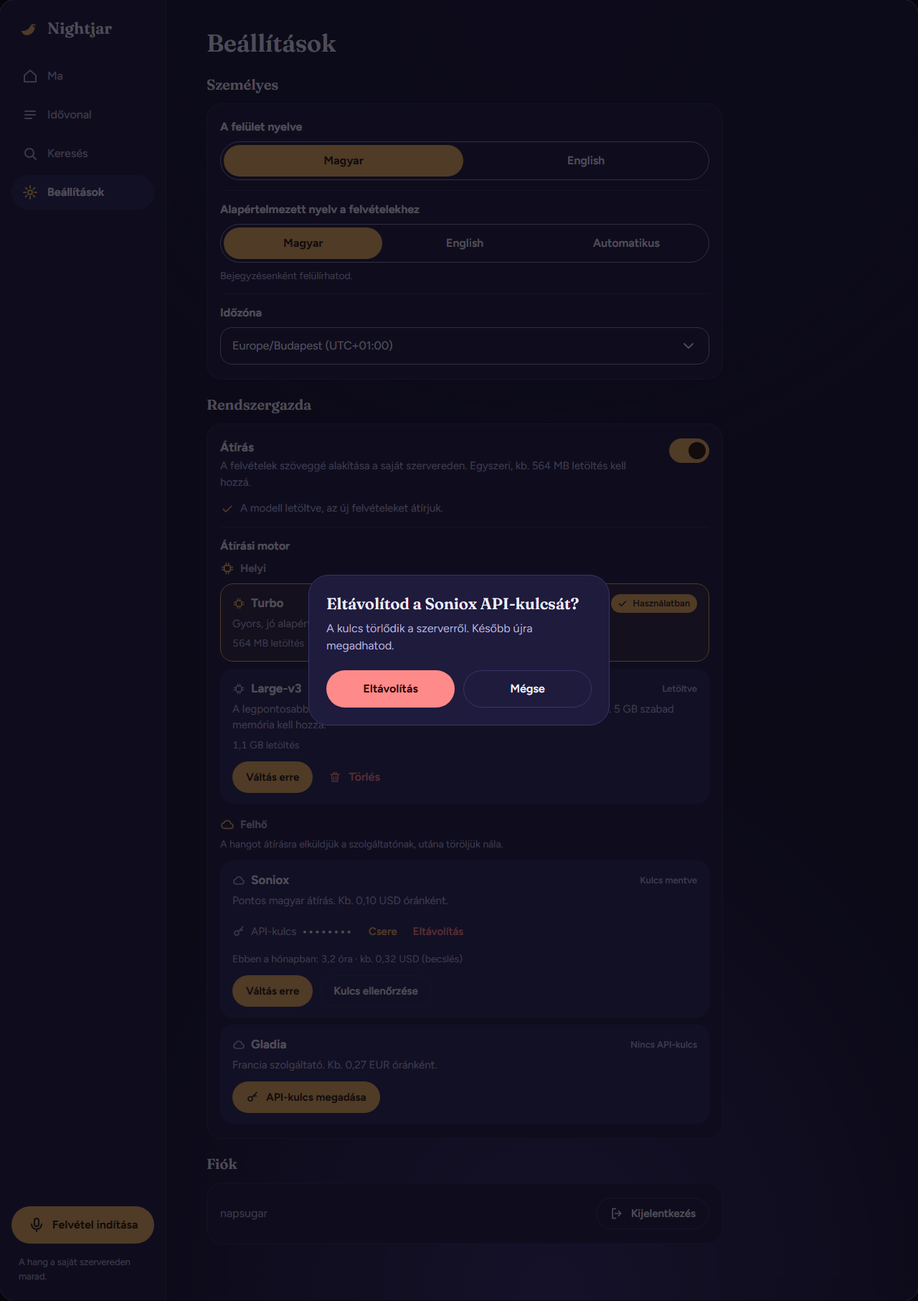
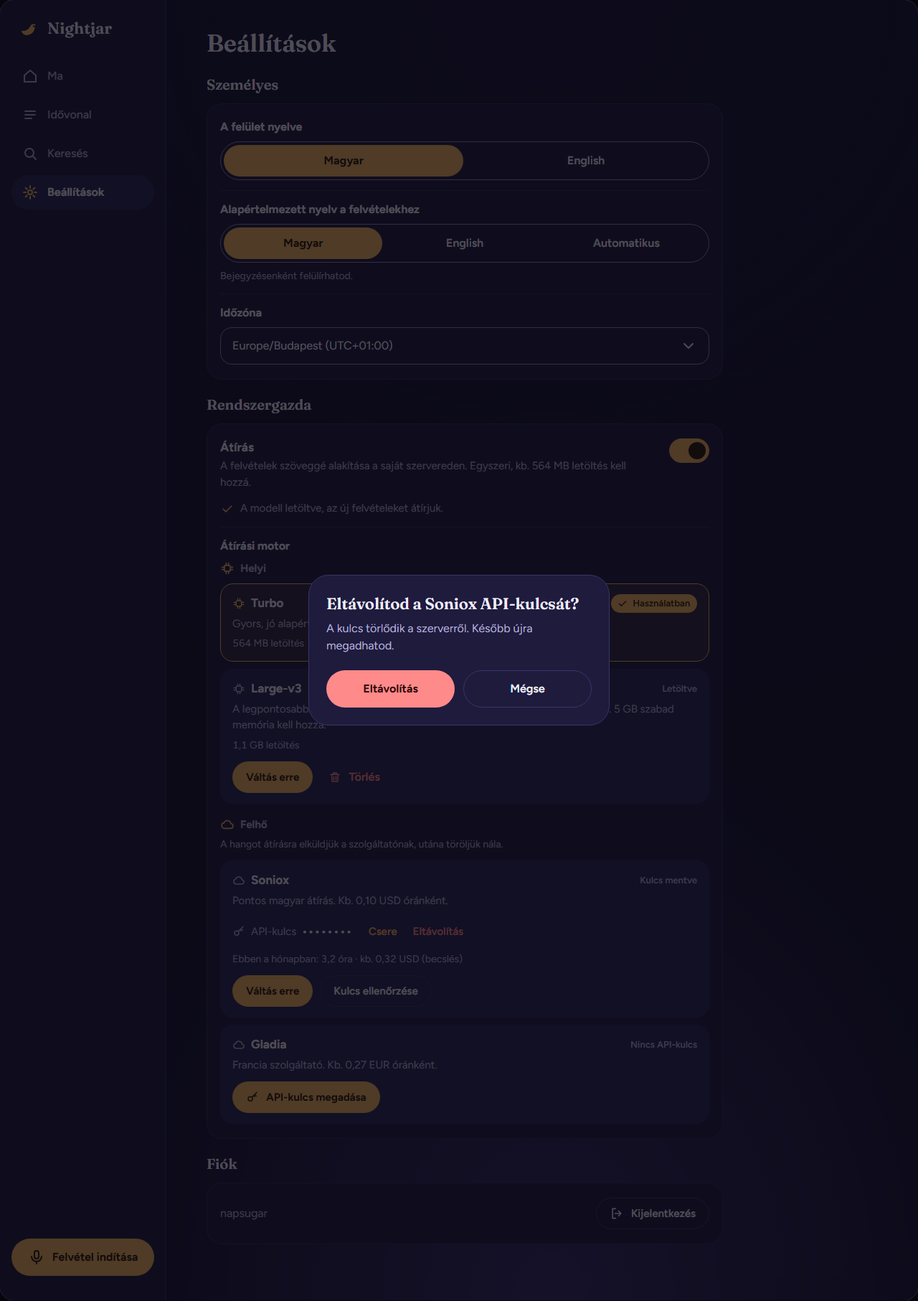
docs: spec 010 owner decisions on the instance secret and privacy notes
The instance secret comes from NIGHTJAR_SECRET_KEY when set, else a generated secret.key in the data folder (D-59), documented in self-hosting and backup. Privacy notes stay in Settings only: the record screen cloud hint is dropped and the existing sidebar and recorder note is removed (D-60). The open question and S-27 are gone, migration renumbered to 0011.

Changed region(s): [[0.0, 0.9266, 0.1875, 0.9884]]

diff --git a/design/alkony/010-cloud-transcription.html b/design/alkony/010-cloud-transcription.html
@@ -374,11 +374,6 @@ mark{background:var(--mark);color:var(--text);border-radius:4px;padding:0 2px}
 .kres.err svg{color:var(--danger)}
 .kform .macts{margin-top:4px}
 .mrow>.alert{margin:12px 0 0}
-.cloudnote{display:inline-flex;align-items:center;gap:8px;justify-content:center}
-.cloudnote svg{width:18px;height:18px;color:var(--accent-text)}
-.note .cloudnote{width:100%}
-.side .privacy .cloudnote{justify-content:flex-start;align-items:flex-start}
-.side .privacy .cloudnote svg{width:16px;height:16px;margin-top:2px}
 .tag .mdl svg{width:15px;height:15px}
 .failed p+p{margin-top:2px}
 </style>
@@ -419,7 +414,7 @@ mark{background:var(--mark);color:var(--text);border-radius:4px;padding:0 2px}
   <label>Screen <select id="s"></select></label>
   <label>Size <select id="d"><option value="m">390 mobile</option><option value="1280">1280 desktop</option><option value="1440">1440 desktop</option></select></label>
   <label>Theme <select id="t"><option value="dark">dark</option><option value="light">light</option></select></label>
-  <p>Mockup only: frames grow with their content so nothing is cut off (on a real phone the page scrolls). Same tokens and parts as the 009 mockups. Prices and usage numbers are examples.</p>
+  <p>Mockup only: frames grow with their content so nothing is cut off (on a real phone the page scrolls). Same tokens and parts as the 009 mockups. Prices and usage numbers are examples. The desktop sidebar has no privacy line any more (D-60): where audio goes is said only in Settings and by the icon on each transcript.</p>
 </div>
 <div class="stage"><div id="frame"></div></div>
 
@@ -510,26 +505,6 @@ const removeDialog=`<div class="scrim"><div class="dialog" role="alertdialog" ar
   <div class="actions"><button class="btn danger block">Eltávolítás</button><button class="btn line block">Mégse</button></div></div></div>`;
 S.keyremove={...S.engines,label:'API key: remove confirmation',over:removeDialog};
 
-/* ---- recorder with the cloud note ---- */
-const bars=n=>Array.from({length:n},(_,i)=>`<span class="${i>n*.75?'old':''}" style="height:${14+Math.abs(Math.sin(i*.55)*Math.cos(i*.21))*92}px"></span>`).join('');
-const cloudNote=`<span class="cloudnote">${ic('cloud')}Átírás a felhőben: Soniox</span>`;
-const ctrls=`<div class="ctrls">
-    <button class="ctrl del"><span class="c">${ic('trash')}</span>Elvetés</button>
-    <button class="ctrl stop"><span class="c"><svg class="i" viewBox="0 0 24 24" aria-hidden="true"><rect x="6" y="6" width="12" height="12" rx="2"/></svg></span>Leállítás</button>
-    <button class="ctrl"><span class="c">${ic('pause')}</span>Szünet</button></div>`;
-S.recordcloud={label:'Recorder: cloud engine note',nav:'',tabs:0,side:1,rec:0,cloud:1,body:()=>`
-  <div class="hd"><span class="state"><b></b>Felvétel folyamatban</span></div>
-  <div class="timer" role="timer" aria-label="Eltelt idő">02:14</div>
-  <p class="sub">Beszélj nyugodtan, nem sietünk.</p>
-  <div class="meter" aria-hidden="true">${bars(36)}</div>${ctrls}
-  <p class="note">${cloudNote}</p>`,
-  d:()=>`<div class="main rec-main" style="align-items:center;justify-content:center;flex:1">
-  <span class="state"><b></b>Felvétel folyamatban</span>
-  <div class="timer" role="timer" aria-label="Eltelt idő">02:14</div>
-  <p class="sub">Beszélj nyugodtan, nem sietünk.</p>
-  <div class="meter" aria-hidden="true">${bars(56)}</div>${ctrls}
-  <p class="note">${cloudNote}</p></div>`};
-
 /* ---- entry: labels and failed states ---- */
 const chipBtn=t=>`<button class="chip">${ic('cal',18)}${t}</button>`;
 const more=`<button class="icbtn more" aria-label="Felvétel műveletei" aria-haspopup="menu" aria-expanded="false">${ic('more')}</button>`;
@@ -575,13 +550,12 @@ function render(id,dev,theme){
   const sc=S[id];const m=dev==='m';const w=m?390:+dev;
   const f=document.getElementById('frame');
   const cls=`frame ${m?'m':'d'} ${theme==='light'?'light':''} ${!m&&sc.bare?'bare':''}`;
-  const privacy=sc.cloud?`<p class="privacy">${cloudNote}</p>`:`<p class="privacy">A hang a saját szervereden marad.</p>`;
   let h='';
   if(m){
     h+=`<div class="status"><span>21:14</span><span>5G ▮▮▮</span></div><div class="scroll">${sc.body()}</div>`;
     if(sc.tabs)h+=`<nav class="tabs" aria-label="Fő navigáció">${nav.map(([k,i,l])=>`<a href="#" ${sc.nav===k?'aria-current="page"':''}>${ic(i)}${l}</a>`).join('')}</nav>`;
   }else{
-    h+=`<nav class="side" aria-label="Fő navigáció"><div class="brand">${ic('bird')}Nightjar</div>${nav.map(([k,i,l])=>`<a class="nav" href="#" ${sc.nav===k?'aria-current="page"':''}>${ic(i)}${l}</a>`).join('')}<div class="grow"></div>${sc.rec?`<button class="newrec">${ic('mic')}Felvétel indítása</button>`:''}${privacy}</nav>`;
+    h+=`<nav class="side" aria-label="Fő navigáció"><div class="brand">${ic('bird')}Nightjar</div>${nav.map(([k,i,l])=>`<a class="nav" href="#" ${sc.nav===k?'aria-current="page"':''}>${ic(i)}${l}</a>`).join('')}<div class="grow"></div>${sc.rec?`<button class="newrec">${ic('mic')}Felvétel indítása</button>`:''}</nav>`;
     h+=`<main class="main">${sc.d?sc.d():`<div class="page"><div class="col">${sc.body()}</div></div>`}</main>`;
   }
   if(sc.over)h+=sc.over;

diff --git a/docs/specs/010-cloud-transcription.md b/docs/specs/010-cloud-transcription.md
@@ -7,7 +7,7 @@ Milestone: after 0.2.1
 On the owner's own Hungarian clips Soniox makes about 3x fewer errors than the best local model (WER: Soniox 7.9%,
 Gladia 17.9%, local large-v3 17.9%, turbo 25.7%; `docs/research/cloud-transcription.md`). The admin can pick a cloud
 provider as the one transcription engine of the installation, with the API key kept safe and the audio deleted at the
-provider after each job (D-49 to D-58).
+provider after each job (D-49 to D-60).
 
 ## Scope
 In (mockups: `design/alkony/010-cloud-transcription.html`, screenshots in `design/alkony/screenshots/010/`):
@@ -21,11 +21,14 @@ In (mockups: `design/alkony/010-cloud-transcription.html`, screenshots in `desig
   "Felhő" (cloud icon). Cloud rows: API key entry (write-only: empty, saved and masked, replace, remove), "Kulcs
   ellenőrzése" (test the key, no audio sent), "Váltás erre" once a key is saved, and an estimate of this month's use
   ("Ebben a hónapban: 3,2 óra · kb. 0,32 USD (becslés)").
-- **Key at rest:** encrypted with AES-256-GCM under a key file the server makes on first start in the data folder.
-  Never returned by the API, never logged, never in error messages.
-- **Icons and hints:** cloud vs local icon in the engine list and on the transcript label (cloud icon + "Soniox"), and a
-  note on the record screen (and the desktop sidebar) saying the recording is transcribed in the cloud, while the active
-  engine is a cloud provider.
+- **Key at rest:** encrypted with AES-256-GCM under the instance secret: `NIGHTJAR_SECRET_KEY` when it is set, else a
+  key file the server makes on first start in the data folder (D-59). Never returned by the API, never logged, never in
+  error messages.
+- **Icons:** cloud vs local icon in the engine list and on the transcript label (cloud icon + "Soniox", chip icon +
+  "Turbo"). That label is the only place outside Settings that shows where an entry was processed.
+- **No privacy notes outside Settings (D-60):** the existing note "A hang a saját szervereden marad." goes away from the
+  desktop sidebar and the record screen, and its i18n key is removed. Settings keeps its notes (the switch hint and
+  the Felhő group hint).
 - **Privacy:** after every attempt the audio and the transcript are deleted at the provider. A failed delete is logged
   without content and retried by a job. Every transcript keeps the id of the engine that wrote it.
 - **Long recordings:** a recording longer than the provider's max length is split with ffmpeg (stream copy, cut in a
@@ -35,12 +38,14 @@ In (mockups: `design/alkony/010-cloud-transcription.html`, screenshots in `desig
 - **Failures:** the recording goes to `failed` with a short reason code the card explains in plain words; "Újrapróbálás"
   and "Átírás újra" work as before. No automatic fallback to a local model.
 
-Out (not now): cloud providers for the AI features (S-26), the where-transcribed note on the upload screen (S-27),
-cost per recording (owner: not on the recording screen), a provider region choice (owner: not needed, the owner's Soniox
-account is US region), more than one active engine, per-user or per-recording engine choice, rotating the key file.
+Out (not now): cloud providers for the AI features (S-26), any "where is it transcribed" note on the record or upload
+screen (owner: privacy notes only in Settings), cost per recording (owner: not on the recording screen), a provider
+region choice (owner: not needed, the owner's Soniox account is US region), more than one active engine, per-user or
+per-recording engine choice, rotating the instance secret.
 
 This spec replaces the "Multiple transcription engines: one sherpa-onnx model" and "Encrypted secrets in DB before M3"
-lines of `architecture.md` §12 when it is built. The key file it adds is the one the M3 AI key will use too (D-24).
+lines of `architecture.md` §12 when it is built. The instance secret it adds is the one the M3 AI key will use too
+(D-24).
 
 ## Flows
 
@@ -243,17 +248,28 @@ export type TranscriberFactory = (engineId: string) => Transcriber // local mode
 
 ### Key storage
 
-- On start the server reads `<data>/secret.key` (32 random bytes). If it is missing, it creates it (`0600`) before the
-  web and worker start. A file of the wrong size stops the start with a clear log line (no key content).
-- `secrets.ts`: AES-256-GCM, key = HKDF-SHA256(file bytes, info `nightjar provider secrets v1`), random 12-byte IV per
+The instance secret is 32 random bytes written as 64 hex characters (`openssl rand -hex 32`). Where it comes from
+(D-59), decided once at start, before the web and worker start:
+
+| Source | When | Rules |
+|---|---|---|
+| `NIGHTJAR_SECRET_KEY` env var | set (also when empty: then the start fails) | validated in `config.ts`: exactly 64 hex characters, else the start stops naming the variable, never its value. The key file is then neither read nor created |
+| `<data>/secret.key` file | env var not set | read if it exists (64 hex characters, one trailing newline allowed); created with mode `0600` if missing. Any other content stops the start with a clear log line (no key content) |
+
+- The log says which source is used (`instance secret from env` / `from file` / `created file`), never the value.
+- Moving from the file to the env var: copy the file's content into `NIGHTJAR_SECRET_KEY`. With a different value the
+  saved provider keys show as unreadable and must be entered again (nothing else is lost).
+- `secrets.ts`: AES-256-GCM, key = HKDF-SHA256(instance secret, info `nightjar provider secrets v1`), random 12-byte IV per
   write, additional data = provider id (a row copied to another provider does not decrypt). Stored as
   `v1.<iv>.<tag>.<ciphertext>` (base64url) in `provider_secrets.ciphertext`; the plaintext is the JSON object of the
   provider's secret fields.
-- A row that does not decrypt (file replaced, data tampered) counts as no key, with `keyError: 'unreadable'`. Nothing
+- A row that does not decrypt (secret changed, data tampered) counts as no key, with `keyError: 'unreadable'`. Nothing
   is deleted automatically; saving a new key replaces the row.
 - The decrypted key lives only inside one provider call. Pino redaction adds `apiKey`, `*.apiKey`, `secrets`,
   `*.secrets`; provider errors never carry bodies or headers; Fastify request logs have no bodies (as today).
-- `backup.md` (when built): back up `secret.key` with the data folder; without it the saved keys must be entered again.
+- Docs: `self-hosting.md` and `backup.md` describe both sources (added with this spec, marked for the release that
+  ships it). Back up `secret.key` (it is in the data folder, so the existing backup has it) or keep the env value safe;
+  a database restored without its secret keeps everything but the provider keys, which must be entered again.
 
 ### Status and engine switching
 
@@ -342,14 +358,15 @@ today's single field.
 - Failed card: the reason line replaces `transcript.failedText` / `transcript.againFailedText` for a known
   `failure` code, followed by "A felvétel megvan." (no transcript) or "A korábbi átirat megmaradt." (old transcript
   kept). "Újrapróbálás" as today.
-- Record screen and desktop sidebar: while `GET /api/v1/transcription` says `ready` or `not_ready` with a cloud engine,
-  the privacy note "A hang a saját szervereden marad." is replaced by cloud icon + "Átírás a felhőben: {{engine}}". Off,
-  or local: unchanged.
+- Desktop sidebar and record screen: the privacy note ("A hang a saját szervereden marad.", `common.privacyNote`) is
+  removed, with its key in both catalogues and its unused styles. Nothing replaces it. The setup wizard's transcription
+  step keeps its lead text (it describes the local choice being made there, like a setting).
 - "Átírás újra" disabled hint for a cloud engine that is `not_ready`: "Nincs használható API-kulcs."
 
 ## Data model
 
-Migration `0009_cloud_transcription`:
+Migration `0011_cloud_transcription` (after spec 009's `0008` to `0010`; the branch is rebased onto main once 009 is
+merged):
 
 | Table | Change |
 |---|---|
@@ -360,8 +377,8 @@ Migration `0009_cloud_transcription`:
 | `transcripts` | `transcribed_at timestamptz not null default now()`, backfilled with `created_at`; index `(model, transcribed_at)` |
 
 Docs to update when this is built: `architecture.md` (§3 Transcriber, §4 data model, §6, §10 outbound traffic, §12),
-`product.md` (settings and entry flows), `backup.md` (the key file), `self-hosting.md` (outbound traffic when a cloud
-engine is active).
+`product.md` (settings and entry flows), `self-hosting.md` (outbound traffic when a cloud engine is active; drop the
+"marked for the release" note on the instance secret section), `backup.md` (same).
 
 ## Acceptance criteria
 
@@ -381,8 +398,8 @@ Settings
 
 Key at rest
 - **AC-11** Given `secrets.ts`, then a round trip returns the input, two encryptions of the same value differ, and decryption fails for a changed ciphertext, tag or IV, for another provider id, and under another key file.
-- **AC-12** Given a data folder without `secret.key`, when the server starts, then it creates a 32-byte file (mode `0600` on POSIX) and a second start reuses it; a file of another size stops the start with a log line that holds no key bytes.
-- **AC-13** Given a saved key and a replaced `secret.key`, when the server starts, then the provider shows `keyError: 'unreadable'` and the row alert "A mentett kulcs nem olvasható. Add meg újra."; with that provider active the state is `needs_key`, new recordings stay `pending`, and saving a key queues them.
+- **AC-12** Given no `NIGHTJAR_SECRET_KEY` and a data folder without `secret.key`, when the server starts, then it creates the file (64 hex characters, mode `0600` on POSIX) and a second start reuses it; given `NIGHTJAR_SECRET_KEY` set to 64 hex characters, then that value is used and no file is read or created; an env value or a file of any other form stops the start with a log line that names the source and holds no key characters.
+- **AC-13** Given a saved key and a changed instance secret (replaced file, or an env value different from the file), when the server starts, then the provider shows `keyError: 'unreadable'` and the row alert "A mentett kulcs nem olvasható. Add meg újra."; with that provider active the state is `needs_key`, new recordings stay `pending`, and saving a key queues them.
 
 Job with a cloud engine
 - **AC-14** Given Soniox active and a Hungarian webm recording, when it is saved, then it goes `pending` → `transcribing` → `done` without a reload; the fixture received the original bytes unchanged as `audio.webm`, a create with `model: 'stt-async-v6'` and `language_hints: ['hu']`; the transcript holds the fixture text, `model = 'soniox'`, language `hu`, and the card shows cloud icon + "Soniox".
@@ -403,14 +420,14 @@ Failures
 
 Hints and labels
 - **AC-27** Given transcripts by Turbo, Soniox and an unknown id, then the meta row shows chip icon + "Turbo" (accessible "Modell: Turbo"), cloud icon + "Soniox" (accessible "Felhőszolgáltatás: Soniox") and nothing for the unknown id.
-- **AC-28** Given transcription on and Soniox active, when any user opens the recorder (and the desktop sidebar), then the note reads cloud icon + "Átírás a felhőben: Soniox" instead of "A hang a saját szervereden marad."; with a local engine or transcription off, the old note shows; `GET /api/v1/transcription` returns `engine: { id: 'soniox', kind: 'cloud' }` to a non-admin.
+- **AC-28** Given any engine (local, or Soniox active) and transcription on or off, when a user opens the recorder, Home, an entry or the upload screen at 390 and 1280, then no "where is it transcribed" note shows (no "A hang a saját szervereden marad.", no cloud note), and `common.privacyNote` exists in neither catalogue; `GET /api/v1/transcription` returns `engine: { id: 'soniox', kind: 'cloud' }` to a non-admin.
 - **AC-29** Given Soniox active with an unreadable key, then "Átírás újra" is disabled with "Nincs használható API-kulcs." and the route answers 409 `model_not_ready`.
 
 Access, privacy, accessibility, upgrade
 - **AC-30** Given a non-admin, then the provider routes answer 403 and Settings shows no engine list; an unknown provider id answers 404 `unknown_provider`; a secrets body with an extra field, an empty or blank key or one over 512 characters answers 400 and saves nothing.
 - **AC-31** Given this spec's flows (save, test, replace a key; a Soniox job, a Gladia job with a split, failing jobs, a failing delete) run with a marker (like `ZQX-PRIVATE-7781`) as the API key, in the fixture's transcript text and in the uploaded file name, then the marker appears nowhere in the captured logs or in any route response except the transcript itself, no log line or error message carries a vendor response body, and no text column of the database holds the key in plain text.
-- **AC-32** Given the engine list (local in use + cloud with key + cloud without; cloud in use with usage), the key form (empty, test ok, invalid key, unreachable, unreadable key), the remove dialog, the recorder with the cloud note, cards with cloud and local labels and the failed cloud cards, then axe reports no violations and the layout checks pass (no sideways scroll, nothing clipped or overlapping) at 390 and 1280, light and dark.
-- **AC-33** Given a database at migration `0008` with `active_model = 'whisper-large-v3-int8'`, a transcript and transcription on, when the new version starts, then `active_engine` is large-v3, the transcript's `transcribed_at` equals its `created_at`, both providers show "Nincs API-kulcs", `secret.key` is created, and nothing is downloaded or sent anywhere.
+- **AC-32** Given the engine list (local in use + cloud with key + cloud without; cloud in use with usage), the key form (empty, test ok, invalid key, unreachable, unreadable key), the remove dialog, cards with cloud and local labels and the failed cloud cards, then axe reports no violations and the layout checks pass (no sideways scroll, nothing clipped or overlapping) at 390 and 1280, light and dark.
+- **AC-33** Given a database at migration `0010` (spec 009) with `active_model = 'whisper-large-v3-int8'`, a transcript and transcription on, when the new version starts without `NIGHTJAR_SECRET_KEY`, then `active_engine` is large-v3, the transcript's `transcribed_at` equals its `created_at`, both providers show "Nincs API-kulcs", `secret.key` is created, and nothing is downloaded or sent anywhere.
 
 ## Test plan
 
@@ -437,8 +454,8 @@ and EN WAVs, a short webm/opus and m4a made from them, and `pauses-150s.ogg` (ge
 | AC-9 | | live update from `model.updated` | event carries `activeEngine`, `providers` | second page sees the switch | |
 | AC-10 | hours + cost math, month start per time zone | usage line both languages | seeded transcripts → usage | | fixed clock, admin in `Europe/Budapest` |
 | AC-11 | encrypt / decrypt / tamper / AAD / other key | | | | |
-| AC-12 | | | start creates and reuses file, wrong size stops start | | temp data folder |
-| AC-13 | | unreadable alert | replaced file → `unreadable`, `needs_key`, pending waits, save queues | | |
+| AC-12 | `config.ts` accepts 64 hex, rejects other env values without echoing them | | start creates and reuses file, env wins and no file appears, bad file / env stops start | | temp data folder |
+| AC-13 | | unreadable alert | replaced file and different env value → `unreadable`, `needs_key`, pending waits, save queues | | |
 | AC-14 | | cloud label | status sequence, bytes equal, create body, transcript row | record HU (fake mic) with Soniox → cloud icon + "Soniox" | |
 | AC-15 | `copyTargets` choice | | ogg magic + codec + duration via ffprobe, m4a as is | | |
 | AC-16 | language pick from tokens, `de` → `en` | | request bodies for auto, stored language | | |
@@ -453,12 +470,12 @@ and EN WAVs, a short webm/opus and m4a made from them, and `pauses-150s.ogg` (ge
 | AC-25 | | reason + kept-transcript line | retry and retranscribe clear `failure` | | |
 | AC-26 | expiry formula | | | | |
 | AC-27 | | three labels, accessible names | | | |
-| AC-28 | | recorder + sidebar note | availability for non-admin | recorder shows cloud note | |
+| AC-28 | catalogue has no `common.privacyNote` | recorder and shell render no note | availability for non-admin | no note on recorder, Home, entry, upload with Soniox active | |
 | AC-29 | | disabled hint | 409 `model_not_ready` | | |
 | AC-30 | | list hidden for non-admin | 403, 404, 400 cases | | |
 | AC-31 | | | marker through the flows; logs, responses, DB text columns | | `log-capture.ts` |
 | AC-32 | | | | axe + `expectLayout` on each state | `emulateMedia({ colorScheme })` |
-| AC-33 | | | real migrations to `0008`, seed, migrate, start | | also `scripts/upgrade-test.ts`: `activeEngine` after upgrade |
+| AC-33 | | | real migrations to `0010`, seed, migrate, start | | also `scripts/upgrade-test.ts`: `activeEngine` after upgrade |
 
 Also covered: both catalogues (spec 006 AC-5), the spec 003 and 009 tests keep passing with `activeEngine`.
 
@@ -487,7 +504,6 @@ New keys, in both `hu` and `en`.
 | `settings.transcriptionHintCloud` | A felvételek szöveggé alakítása felhőszolgáltatással ({{engine}}). | Recordings are turned into text by a cloud service ({{engine}}). |
 | `settings.engines.cloudReady` | Az új felvételeket a felhőben írjuk át ({{engine}}). | New recordings are transcribed in the cloud ({{engine}}). |
 | `settings.engines.needsKey` | Add meg újra az API-kulcsot. Addig az új felvételek várnak. | Enter the API key again. New recordings wait until then. |
-| `common.cloudNote` | Átírás a felhőben: {{engine}} | Transcribed in the cloud: {{engine}} |
 | `transcript.cloudPrefix` (visually hidden) | Felhőszolgáltatás: | Cloud service: |
 | `transcript.audioKept` / `.oldKept` | A felvétel megvan. / A korábbi átirat megmaradt. | The recording is safe. / The earlier transcript is still here. |
 | `failure.api_key_invalid` | A felhőszolgáltató nem fogadta el az API-kulcsot. A rendszergazda a Beállításokban cserélheti. | The cloud service didn't accept the API key. An admin can replace it in Settings. |
@@ -499,18 +515,21 @@ New keys, in both `hu` and `en`.
 | `error.api_key_missing` | Előbb add meg az API-kulcsot. | Add the API key first. |
 | `error.engine_in_use` | A használatban lévő motor kulcsát nem lehet eltávolítani. Előbb válts másikra. | The key of the engine in use can't be removed. Switch to another one first. |
 
-`settings.models.title` ("Átírási modell") is replaced by `settings.engines.title`. Reused: `settings.models.inUse`,
+`settings.models.title` ("Átírási modell") is replaced by `settings.engines.title`. Removed: `common.privacyNote`
+("A hang a saját szervereden marad." / "Your voice stays on your own server."). Reused: `settings.models.inUse`,
 `settings.models.use`, `common.cancel`, `common.retry`, `transcript.failed`, `transcript.againFailed`,
 `transcript.modelPrefix`.
 
 ## Privacy & data
-- Stored: the encrypted provider key in `provider_secrets`; the key file `secret.key` in the data folder; vendor ids of
+- Stored: the encrypted provider key in `provider_secrets`; the key file `secret.key` in the data folder (unless
+  `NIGHTJAR_SECRET_KEY` is set); vendor ids of
   copies not yet deleted in `cloud_copies`; the engine id and `transcribed_at` on each transcript; a failure code on
   failed recordings.
 - Leaves the server, only while a cloud engine is active: the recording's audio (as stored, remuxed or cut, never
   re-encoded) and the language hint go to that provider; the transcript comes back. Nothing else: no entry text, no
   user name, no file name (fixed `audio.<ext>`). "Kulcs ellenőrzése" sends only the key. Switching to a cloud engine is
-  an admin action, and the record screen says so while it is active.
+  an admin action in Settings, where the Felhő group says audio is sent out; each transcript's label shows the cloud
+  icon and the provider name.
 - Deleted at the vendor after every attempt (audio and transcript), with retries. Left behind only when Gladia's
   `start` fails after an upload (no delete API for that file; Gladia's retention applies) or a delete keeps failing (the
   row stays and is retried on every cleanup run). Soniox deletes by itself after 30 days.
@@ -520,13 +539,8 @@ New keys, in both `hu` and `en`.
 - The Soniox account is US region (owner's account); accepted for now.
 
 ## Open questions
-1. **Where the key that encrypts provider keys lives (needs the owner).** There is no server secret outside the
-   database: Better Auth's secret is `instance_settings.auth_secret`, in the same database as the encrypted keys, so a
-   database dump would hold both. Options:
-   - A (in this spec, recommended): `secret.key` file made on first start in the data folder. No setup; a database dump
-     alone does not reveal provider keys. Back up the data folder as today (`backup.md` gets one line).
-   - B: `NIGHTJAR_SECRET_KEY` env var the admin must set. Keeps the key out of both backups, but one more setup step,
-     and the app can't save keys until it is set.
-   - C: derive from `auth_secret`. No setup, but encryption then protects nothing against a database dump.
-2. Gladia's training opt-out is an account setting, not an API flag (research). The settings hint can't enforce it;
+None blocking. Decided on 11-28: the instance secret comes from `NIGHTJAR_SECRET_KEY` or a generated key file (D-59;
+Better Auth's `auth_secret` lives in the same database as the encrypted keys, so it doesn't fit), and privacy notes stay
+in Settings (D-60).
+1. Gladia's training opt-out is an account setting, not an API flag (research). The settings hint can't enforce it;
    the owner should switch it off in the Gladia profile.

diff --git a/docs/decisions.md b/docs/decisions.md
@@ -7,7 +7,6 @@ Newest at the bottom. To change a decision, add a new entry that replaces the ol
 | # | Question | Options |
 |---|---|---|
 | O-6 | Model folders of a model that a later release removes from `models.json` stay on disk with no Delete button | Leave, or list and delete unknown folders in Settings. Decide when a model is first dropped |
-| O-7 | Where the key that encrypts provider API keys lives (spec 010). Better Auth's secret sits in the same database as the encrypted keys, so it doesn't fit | A (in the spec, recommended): `secret.key` file made on first start in the data folder, no setup, a database dump alone reveals nothing. B: `NIGHTJAR_SECRET_KEY` env var, one more setup step. C: derive from `auth_secret`, protects nothing against a database dump |
 | O-5 | Speech recognition approach | Round 2 done (150 FLEURS sentences/lang, fairer scoring, `eval/reports/public-round2-2026-11-26.md`): Whisper turbo HU 15.5% / EN 5.2% WER at RTF 0.39; large-v3 13.6% and BuzzASR 12.4% HU but ~6x slower (RTF 2.2, 5 GB RAM); Canary 16.3%; Parakeet 30.9%. Lean: turbo. Owner decides after own clips + Soniox yardstick |
 
 ## Requirements the owner asked for
@@ -53,7 +52,6 @@ Owner's answer (2026-11-26): **in scope** S-1, S-4, S-5, S-6, S-7, S-8, S-9. **B
 | S-24 | Transcribe all recordings again in bulk (for example after switching to Large-v3) | suggested (not in spec 009) |
 | S-25 | Check the host's free RAM and warn before switching to a heavy model like Large-v3 | suggested (not in spec 009) |
 | S-26 | Cloud providers for the AI features (M3), reusing the provider registry and the encrypted key store | suggested (not in spec 010) |
-| S-27 | Show the "transcribed in the cloud" note on the upload screen too (spec 010 puts it on the record screen and the desktop sidebar) | suggested (not in spec 010) |
 
 ## Decided
 
@@ -109,6 +107,8 @@ Owner's answer (2026-11-26): **in scope** S-1, S-4, S-5, S-6, S-7, S-8, S-9. **B
 | D-56 | 11-28 | Cloud failures (bad key, no credit, provider down, timeout) put the recording in `failed` with a plain-words reason; "transcribe again" works; no automatic fallback to local (it would silently change where audio goes). Retries follow the pg-boss settings, except permanent errors fail at once; job expiry becomes at least 30 min for every job | Owner |
 | D-57 | 11-28 | Cost: not on the recording screen. Each cloud engine row in Settings shows "This month: X h, about $Y (estimate)" = audio length of transcripts made by that engine this month x the provider's declared price | Owner |
 | D-58 | 11-28 | The owner's Soniox account is US region; fine for now. No provider region choice | Owner |
+| D-59 | 11-28 | Provider API keys are encrypted under an instance secret: `NIGHTJAR_SECRET_KEY` (64 hex characters, `openssl rand -hex 32`) when set, else a `secret.key` file the server makes on first start in the data folder. Back the file up with the database (the existing data-folder backup has it); without it the provider keys must be entered again. Better Auth's `auth_secret` is not used (same database as the keys). Spec 010 | Owner picked A with an env override |
+| D-60 | 11-28 | Privacy notes only in Settings. No "your voice stays on your server" or "transcribed in the cloud" note anywhere else: the existing sidebar and record-screen note goes away. The cloud / local icon on the transcript label stays. Replaces the record-screen hint of D-52. Spec 010 | Owner |
 | D-45 | 11-27 | Faster CI: skip CI for docs-only changes, split verify into parallel jobs (checks + unit, API, e2e per browser), open a PR only when the branch is verified locally and review fixes are in, fix flaky tests at the root. Parallel e2e within one browser later | Owner |
 | D-44 | 11-27 | M1 round 2 screens approved as they are (small differences from the mockups accepted). Claude may open and merge the pre-0.2.0 PRs and the 0.2.0 release PR once smoke test and CI are green | Owner |
 | D-43 | 11-27 | Sign in with username + password instead of email (no email can be sent). Setup asks for a username, a name ("What should we call you?") and a password; the name is used in the greeting and can be changed in Settings. Email is not collected for now; it can be added later for OAuth or a hosted version. Breaking DB change is fine: nobody has installed 0.1.0 | Owner |

diff --git a/docs/roadmap.md b/docs/roadmap.md
@@ -1,7 +1,7 @@
 # Roadmap
 
 **Now:** 0.2.1: search partial matches (merged), transcription model choice (Turbo, Turbo full precision, Large-v3) and transcribe again (spec 009, built and verified in branch `feat/transcription-models`). The loop guard was dropped.
-**Next:** spec 010 cloud transcription providers (Soniox, Gladia; approved, `docs/specs/010-cloud-transcription.md`; open: O-7 where the encryption key lives). Owner installs 0.2.0 and journals for a week (M1 done-when). Then M2 planning. Open: local-only flakes in model-manager.test.ts and the /readyz db_down test under full-suite load (cause not found). Later: parallel e2e within one browser, owner speech clips + Soniox yardstick.
+**Next:** spec 010 cloud transcription providers (Soniox, Gladia; approved, `docs/specs/010-cloud-transcription.md`, build after 0.2.1 on top of main once spec 009 is merged; new migrations start at `0011`). Owner installs 0.2.0 and journals for a week (M1 done-when). Then M2 planning. Open: local-only flakes in model-manager.test.ts and the /readyz db_down test under full-suite load (cause not found). Later: parallel e2e within one browser, owner speech clips + Soniox yardstick.
 
 Legend: `[ ]` todo, `[~]` in progress, `[x]` done. Each milestone ends with something usable.
 

diff --git a/docs/self-hosting.md b/docs/self-hosting.md
@@ -32,6 +32,20 @@ Image tag in `docker/compose.yaml`:
 
 Back both up, see the [backup guide](backup.md).
 
+### Instance secret (from the release with cloud transcription, spec 010)
+
+API keys for cloud transcription providers are stored encrypted. The key that encrypts them is the instance secret:
+32 random bytes written as 64 hex characters.
+
+| Where it comes from | When |
+|---|---|
+| `NIGHTJAR_SECRET_KEY` env var on the `nightjar` service | When set. Make one with `openssl rand -hex 32`. Any other format stops the start |
+| `/data/secret.key` | When the env var is not set. The app makes it on first start (mode `0600`) and reuses it |
+
+Nothing to do if you are happy with the file. Keep it with your backups: a database restored without the same secret
+keeps everything except the saved provider keys, which you then enter again in Settings. To move from the file to the
+env var, put the file's content into `NIGHTJAR_SECRET_KEY`.
+
 ## 3. Traefik
 
 Remove the `ports:` section from the `nightjar` service (Traefik reaches it on the Docker network) and join Traefik's

diff --git a/docs/design.md b/docs/design.md
@@ -35,8 +35,8 @@ M1 mockups (all screens and states, 390 / 1280 / 1440, dark + light, screen swit
 Spec 009 mockups (model list in Settings, recording menu with "Átírás újra", edited-transcript confirm, model label):
 `design/alkony/009-transcription-models.html` (screenshots at 390 / 1280, dark + light in `design/alkony/screenshots/009/`).
 
-Spec 010 mockups (engine list with Local and Cloud groups, API key entry and check, monthly estimate, cloud note on the
-record screen, cloud transcript label, failed cloud transcription): `design/alkony/010-cloud-transcription.html`
+Spec 010 mockups (engine list with Local and Cloud groups, API key entry and check, monthly estimate, cloud / local
+transcript label, failed cloud transcription; no privacy line outside Settings, D-60): `design/alkony/010-cloud-transcription.html`
 (screenshots at 390 / 1280, dark + light in `design/alkony/screenshots/010/`).
 
 ## Direction feedback

diff --git a/docs/backup.md b/docs/backup.md
@@ -10,6 +10,10 @@ form, so keep it somewhere only you can read. Run every command from the folder 
 | Database (entries, users, settings) | `db` service, `nightjar-db` volume | Yes |
 | Files (recordings; photos later) | `nightjar-data` volume, `/data` in the app. The files are in `media/` | Yes |
 | Transcription models | `nightjar-data` volume, `models/` | No, they download again |
+| Instance secret (from the release with cloud transcription) | `nightjar-data` volume, `secret.key`, or your `NIGHTJAR_SECRET_KEY` value | Yes, if you saved cloud provider API keys. Without it those keys must be entered again; nothing else is lost |
+
+The tar below has `secret.key` in it. If you set `NIGHTJAR_SECRET_KEY` instead, keep that value somewhere safe next to
+your backups, separate from the database dump.
 
 The tar below includes `models/` because it is simpler than leaving it out. Models can be a few hundred MB.
 
